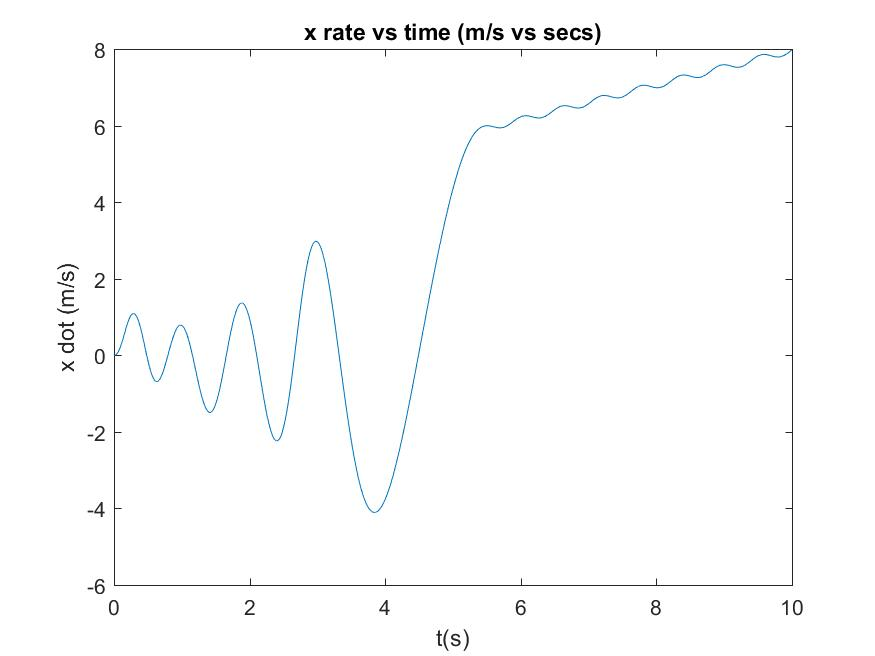
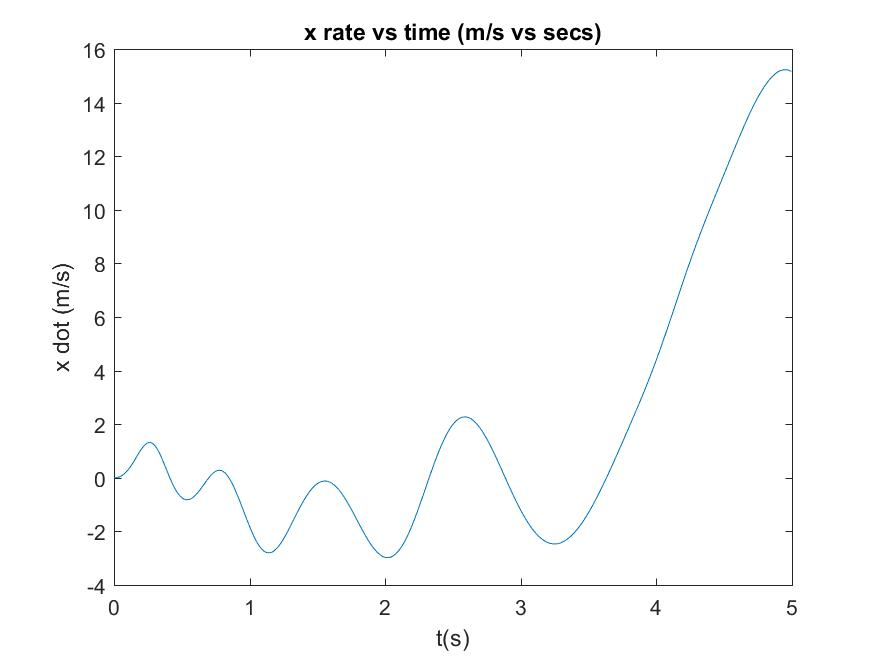
one run for hover, maintains equil solution!

diff --git a/dynamicsysteme.m b/dynamicsysteme.m
@@ -1,4 +1,4 @@
-function [stateDeriv]= dynamicsysteme(t, state, dt, f)
+function [stateDeriv]= dynamicsysteme(t, state, f,desirestate)
 % Propagates quadrotor dyanimcs using ode45
 % Inputs: time, state and control signal 
 % Output: derivative of the state
@@ -19,34 +19,35 @@ stateDeriv = zeros(12,1);
     cos(state(2))*sin(state(3)) sin(state(3))*sin(state(2))*sin(state(1))+cos(state(1))*cos(state(3)) sin(state(3))*cos(state(1))*sin(state(2))-sin(state(1))*cos(state(3));
     -sin(state(2)) cos(state(2))*sin(state(1)) cos(state(1))*cos(state(2))];
 j=1;
-for j=1:4
+for j=1:3
     if f(j)>3.8
        f(j)=3.8;
     end
    if f(j)<0.2
        f(j)=0.2;
    end
-   w(j)=sqrt(abs(f(j))/Kf) 
-   
+   w(j)=sqrt(abs(f(j))/Kf) ;
+ 
 end
-
+w(4)=0;
+f(4)=0;
 fGravity = [0; 0; -m*g];                 % force of gravity, inertial fram
 fThrust = R*[0; 0; Kf*sum(w.^2)];   % force of thrust, expressed in inertial frame
 
 stateDeriv(1)=state(4)+state(5)*sin(state(1))*tan(state(2))+state(6)*cos(state(1))*tan(state(2));
 stateDeriv(2)=state(5)*cos(state(1))-state(6)*sin(state(1));
 stateDeriv(3)=1/cos(state(2))*(state(5)*sin(state(1))+state(6)*cos(state(1)));
-stateDeriv(4)=(1/IB(1,1))*((f(2)-f(4))*l+state(5)*state(6)*(IT(3,3)-IT(1,1))-Izzp*state(5)*(sqrt(abs(f(1))/Kf) +sqrt(abs(f(2))/Kf) +sqrt(abs(f(3))/Kf)+ sqrt(abs(f(4))/Kf) ));
+stateDeriv(4)=(1/IB(1,1))*((f(2))*l-state(5)*state(6)*(IT(3,3)-IT(1,1))-Izzp*state(5)*(sqrt(abs(f(1))/Kf) +sqrt(abs(f(2))/Kf) +sqrt(abs(f(3))/Kf)+ sqrt(abs(f(4))/Kf) ));
 stateDeriv(5)=(1/IB(1,1))*((f(3)-f(1))*l+state(4)*state(6)*(IT(3,3)-IT(1,1))+Izzp*state(4)*(sqrt(abs(f(1))/Kf) +sqrt(abs(f(2))/Kf) +sqrt(abs(f(3))/Kf)+ sqrt(abs(f(4))/Kf)));
 stateDeriv(6)=(1/IB(3,3))*(-Dt*state(6)+Kt*(f(1)-f(2)+f(3)-f(4)));
-stateDeriv(7:9)=state(10:12);
-% stateDeriv(7)=state(10);
-% stateDeriv(8)=state(11);
-% stateDeriv(9)=state(12);
-stateDeriv(10:12)=1/m*(fThrust+fGravity);
-% stateDeriv(10)=((cos(state(1))*cos(state(3))*sin(state(2))+sin(state(1))*sin(state(3)))/m)*(f(1)+f(2)+f(3)+f(4));
-% stateDeriv(11)=((cos(state(1))*sin(state(3))*sin(state(2))-sin(state(1))*cos(state(3)))/m)*(f(1)+f(2)+f(3)+f(4));
-% stateDeriv(12)=(1/m)*(((f(1)+f(2)+f(3)+f(4))*cos(state(1))*cos(state(2)))-m*g);
+% stateDeriv(7:9)=state(10:12);
+stateDeriv(7)=state(10);
+stateDeriv(8)=state(11);
+stateDeriv(9)=state(12);
+% stateDeriv(10:12)=1/m*(fThrust+fGravity);
+stateDeriv(10)=((cos(state(1))*cos(state(3))*sin(state(2))+sin(state(1))*sin(state(3)))/m)*(f(1)+f(2)+f(3)+f(4));
+stateDeriv(11)=((cos(state(1))*sin(state(3))*sin(state(2))-sin(state(1))*cos(state(3)))/m)*(f(1)+f(2)+f(3)+f(4));
+stateDeriv(12)=(1/m)*(((f(1)+f(2)+f(3)+f(4))*cos(state(1))*cos(state(2)))-m*g);
 % stateDeriv(10)=((cos(state(1))*cos(state(3))*sin(state(2))+sin(state(1))*sin(state(3)))/m)*u(1)-(Dt/m)*state(10);
 % stateDeriv(11)=((cos(state(1))*sin(state(3))*sin(state(2))-sin(state(1))*cos(state(3)))/m)*u(1)-(Dt/m)*state(11);
 % stateDeriv(12)=(1/m)*(((f(1)+f(2)+f(3))*cos(state(1))*cos(state(2)))-m*g);

diff --git a/initequil.m b/initequil.m
@@ -1,21 +1,21 @@
 function []= initequil()
 initparams;
     global fbar wbar Kf  nbar wbbar Rps
-    
-%  fbar=[2.05; 1.02; 2.05 ;0];
-%  for i=1:4
-%  wbar(i)=sqrt(fbar(i)/Kf);
-%  end
-%  wbbar=[0;5.69;18.89];
-%  nbar=[0;0.289;0.958];
-% Rps=8; 
+     wbar(1)= 555.7408;
+     wbar(3)=555.7408
+     wbar(2)=392.9681;
+fbar=[(wbar(1))^2*Kf (wbar(2))^2*Kf (wbar(3))^2*Kf 0]';
 
- wbar=[582;362;585;0];
- for i=1:4
-     fbar(i)=Kf*wbar(i)^2;
- end
- wbbar=[0.2;4.3;19.5];
- nbar=[0.01;0.2155;0.97744];
-Rps=6; 
+ wbbar=[0;2.4579;18.2494];
+ nbar=[0;0.1335;0.9911];
+Rps=8; 
+% 
+%  wbar=[582;362;585;0];
+%  for i=1:4
+%      fbar(i)=Kf*wbar(i)^2;
+%  end
+%  wbbar=[0.2;4.3;19.5];
+%  nbar=[0.01;0.2155;0.97744];
+% Rps=6; 
 
 end

diff --git a/initparams.m b/initparams.m
@@ -35,7 +35,7 @@ function []= initparams()
     %PROP_POSNS = [p1, p2, p3, p4] - repmat(CoM,1,4);
     l=0.17; %distance of prop to cog
     Kf = 6.41*10^-6; % Thrust coefficient
-    Kt = 1.1*10^-7; % torq coefficient
+    Kt = 1.69*10^-2; % torq coefficient
     Dt= 2.75*10^-3; % drag coeffient
 %     u2RpmMat = inv([-Kt                   -Kt                   -Kt                   -Kt;              
 %                     -Kt*PROP_POSNS(2,1) -Kt*PROP_POSNS(2,2) -Kt*PROP_POSNS(2,3) -Kt*PROP_POSNS(2,4);

diff --git a/forces.m b/forces.m
@@ -17,5 +17,13 @@ initequil;
 %     f(2)= -x(2) + u(2)+fbar(2);
 %     f(3)=f_total-x(1) -x(2) -x(3) ;
 x=linsolve(G,H);
-x(4)=0
+for j=1:3
+    if x(j)>3.8
+       x(j)=3.8;
+    end
+   if x(j)<0.2
+       x(j)=0.2;
+   end
+end
+x(4)=0;
 end
